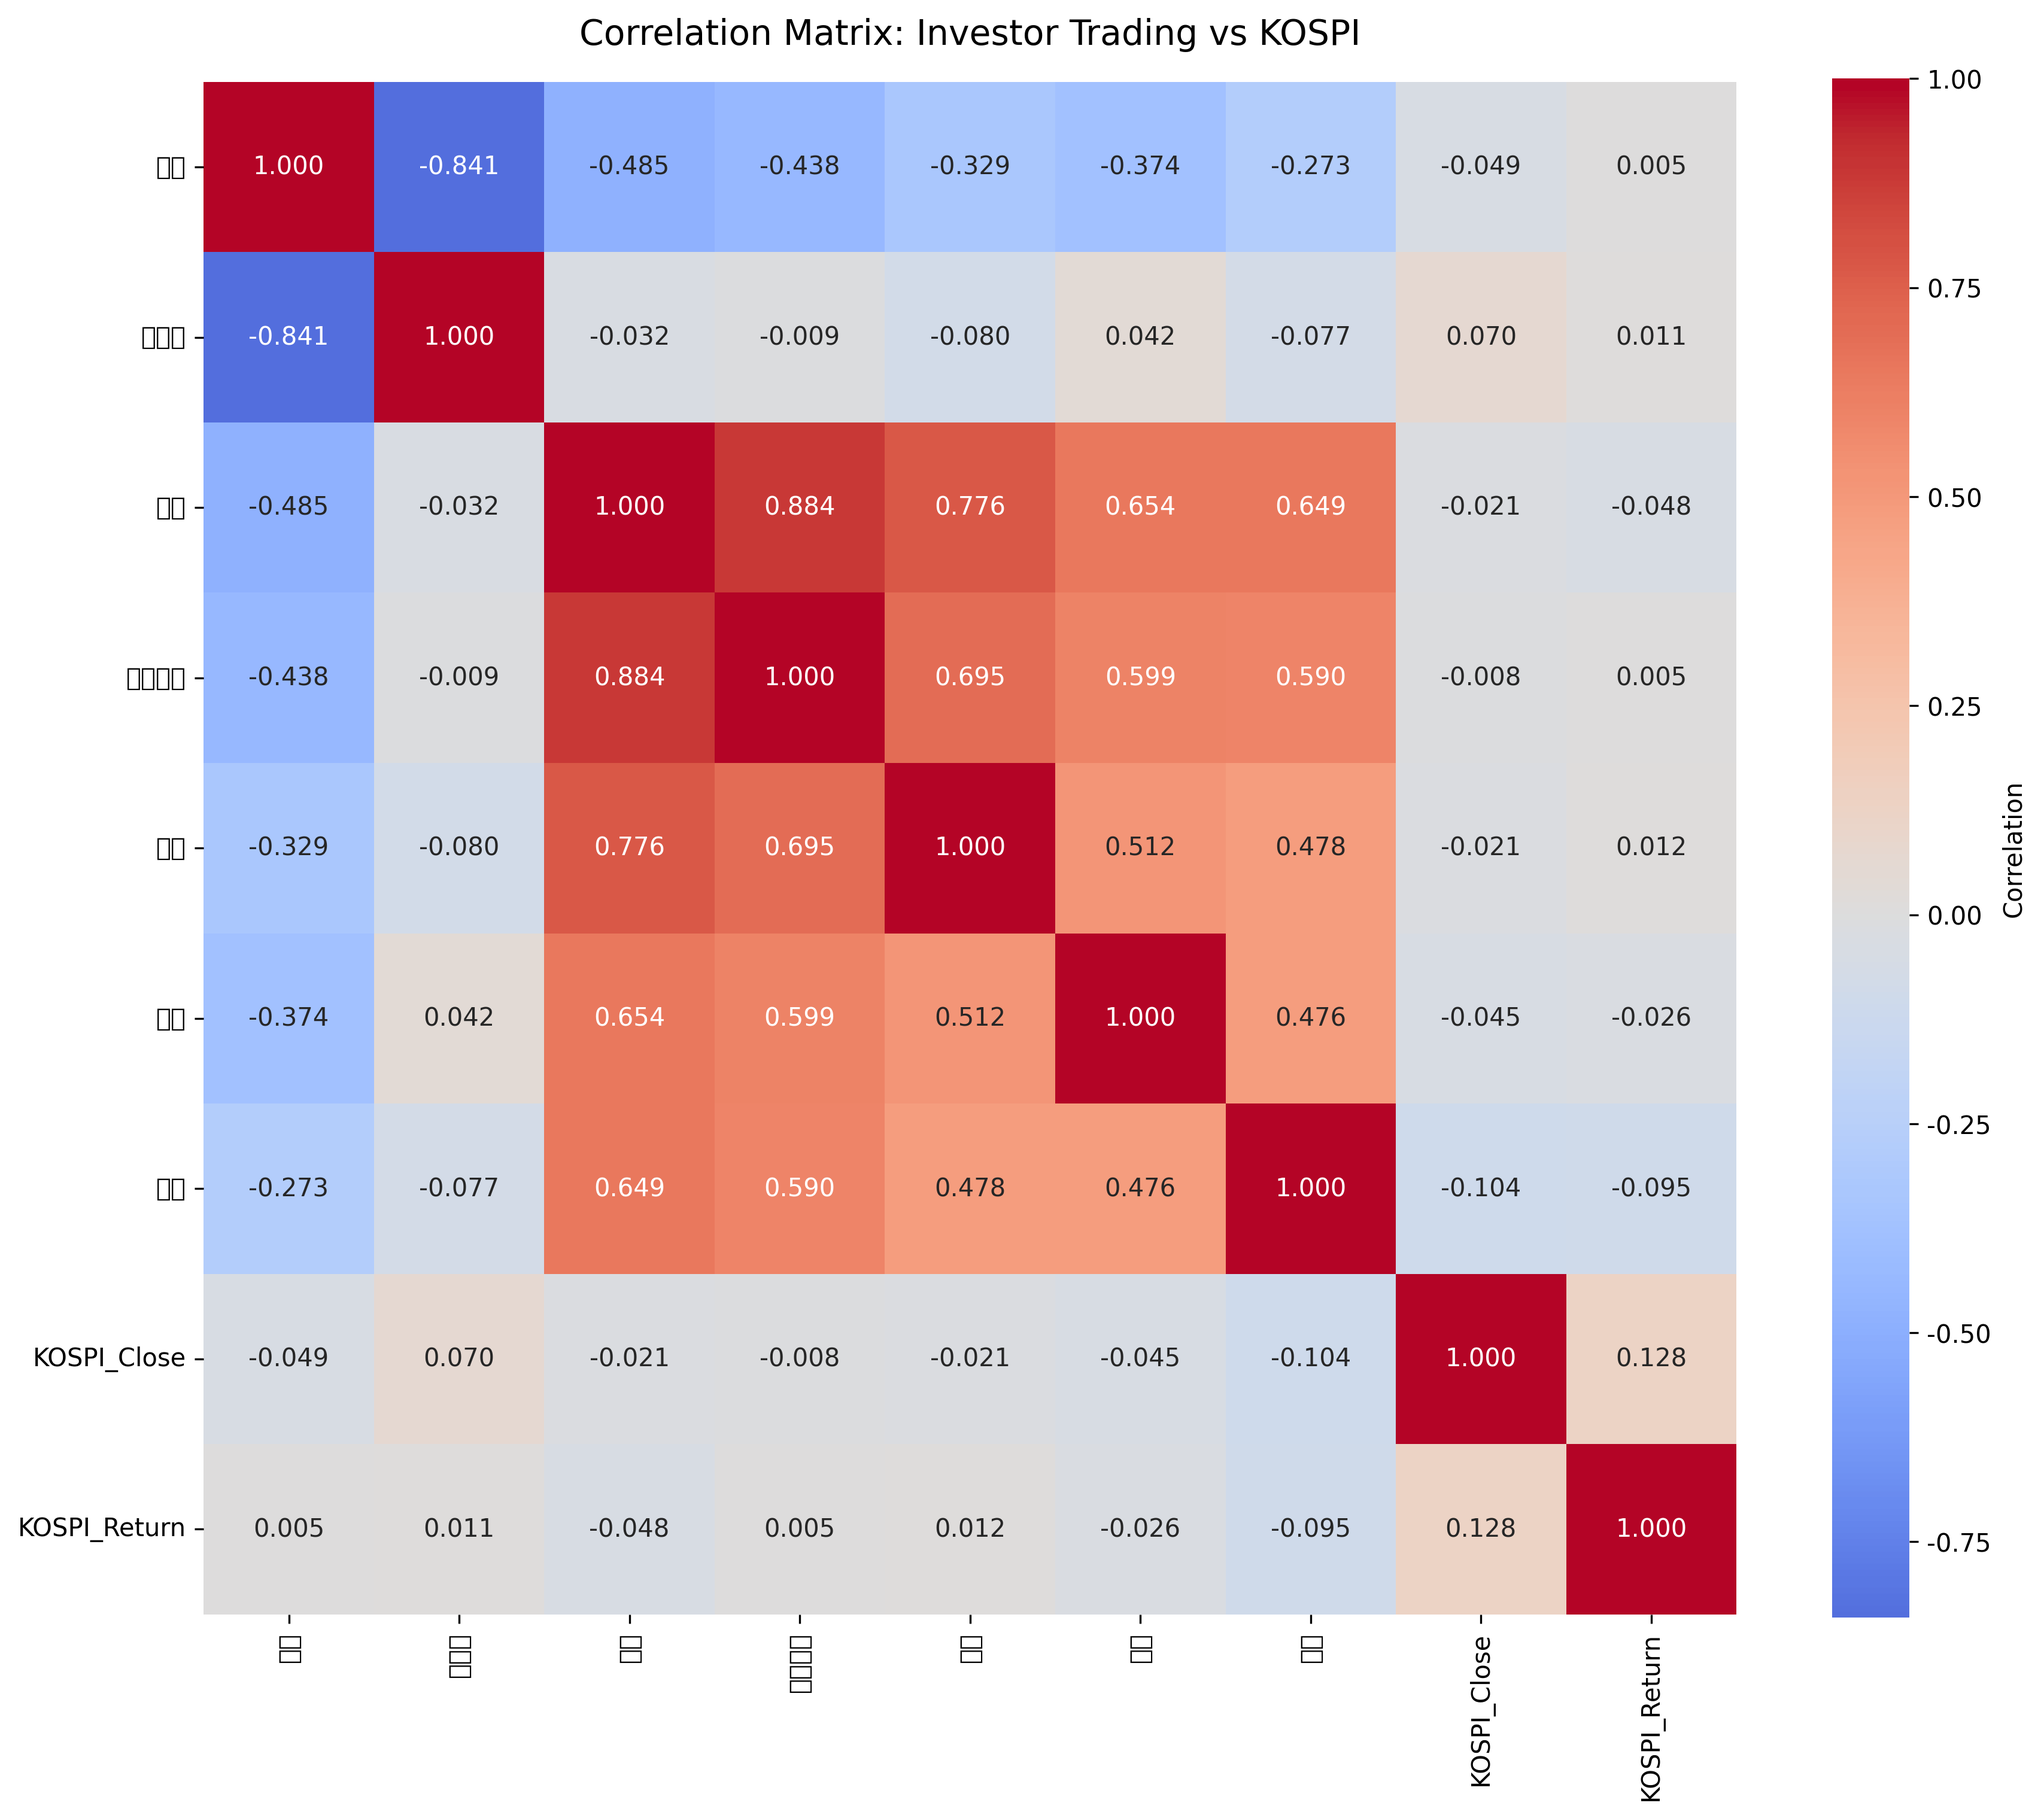
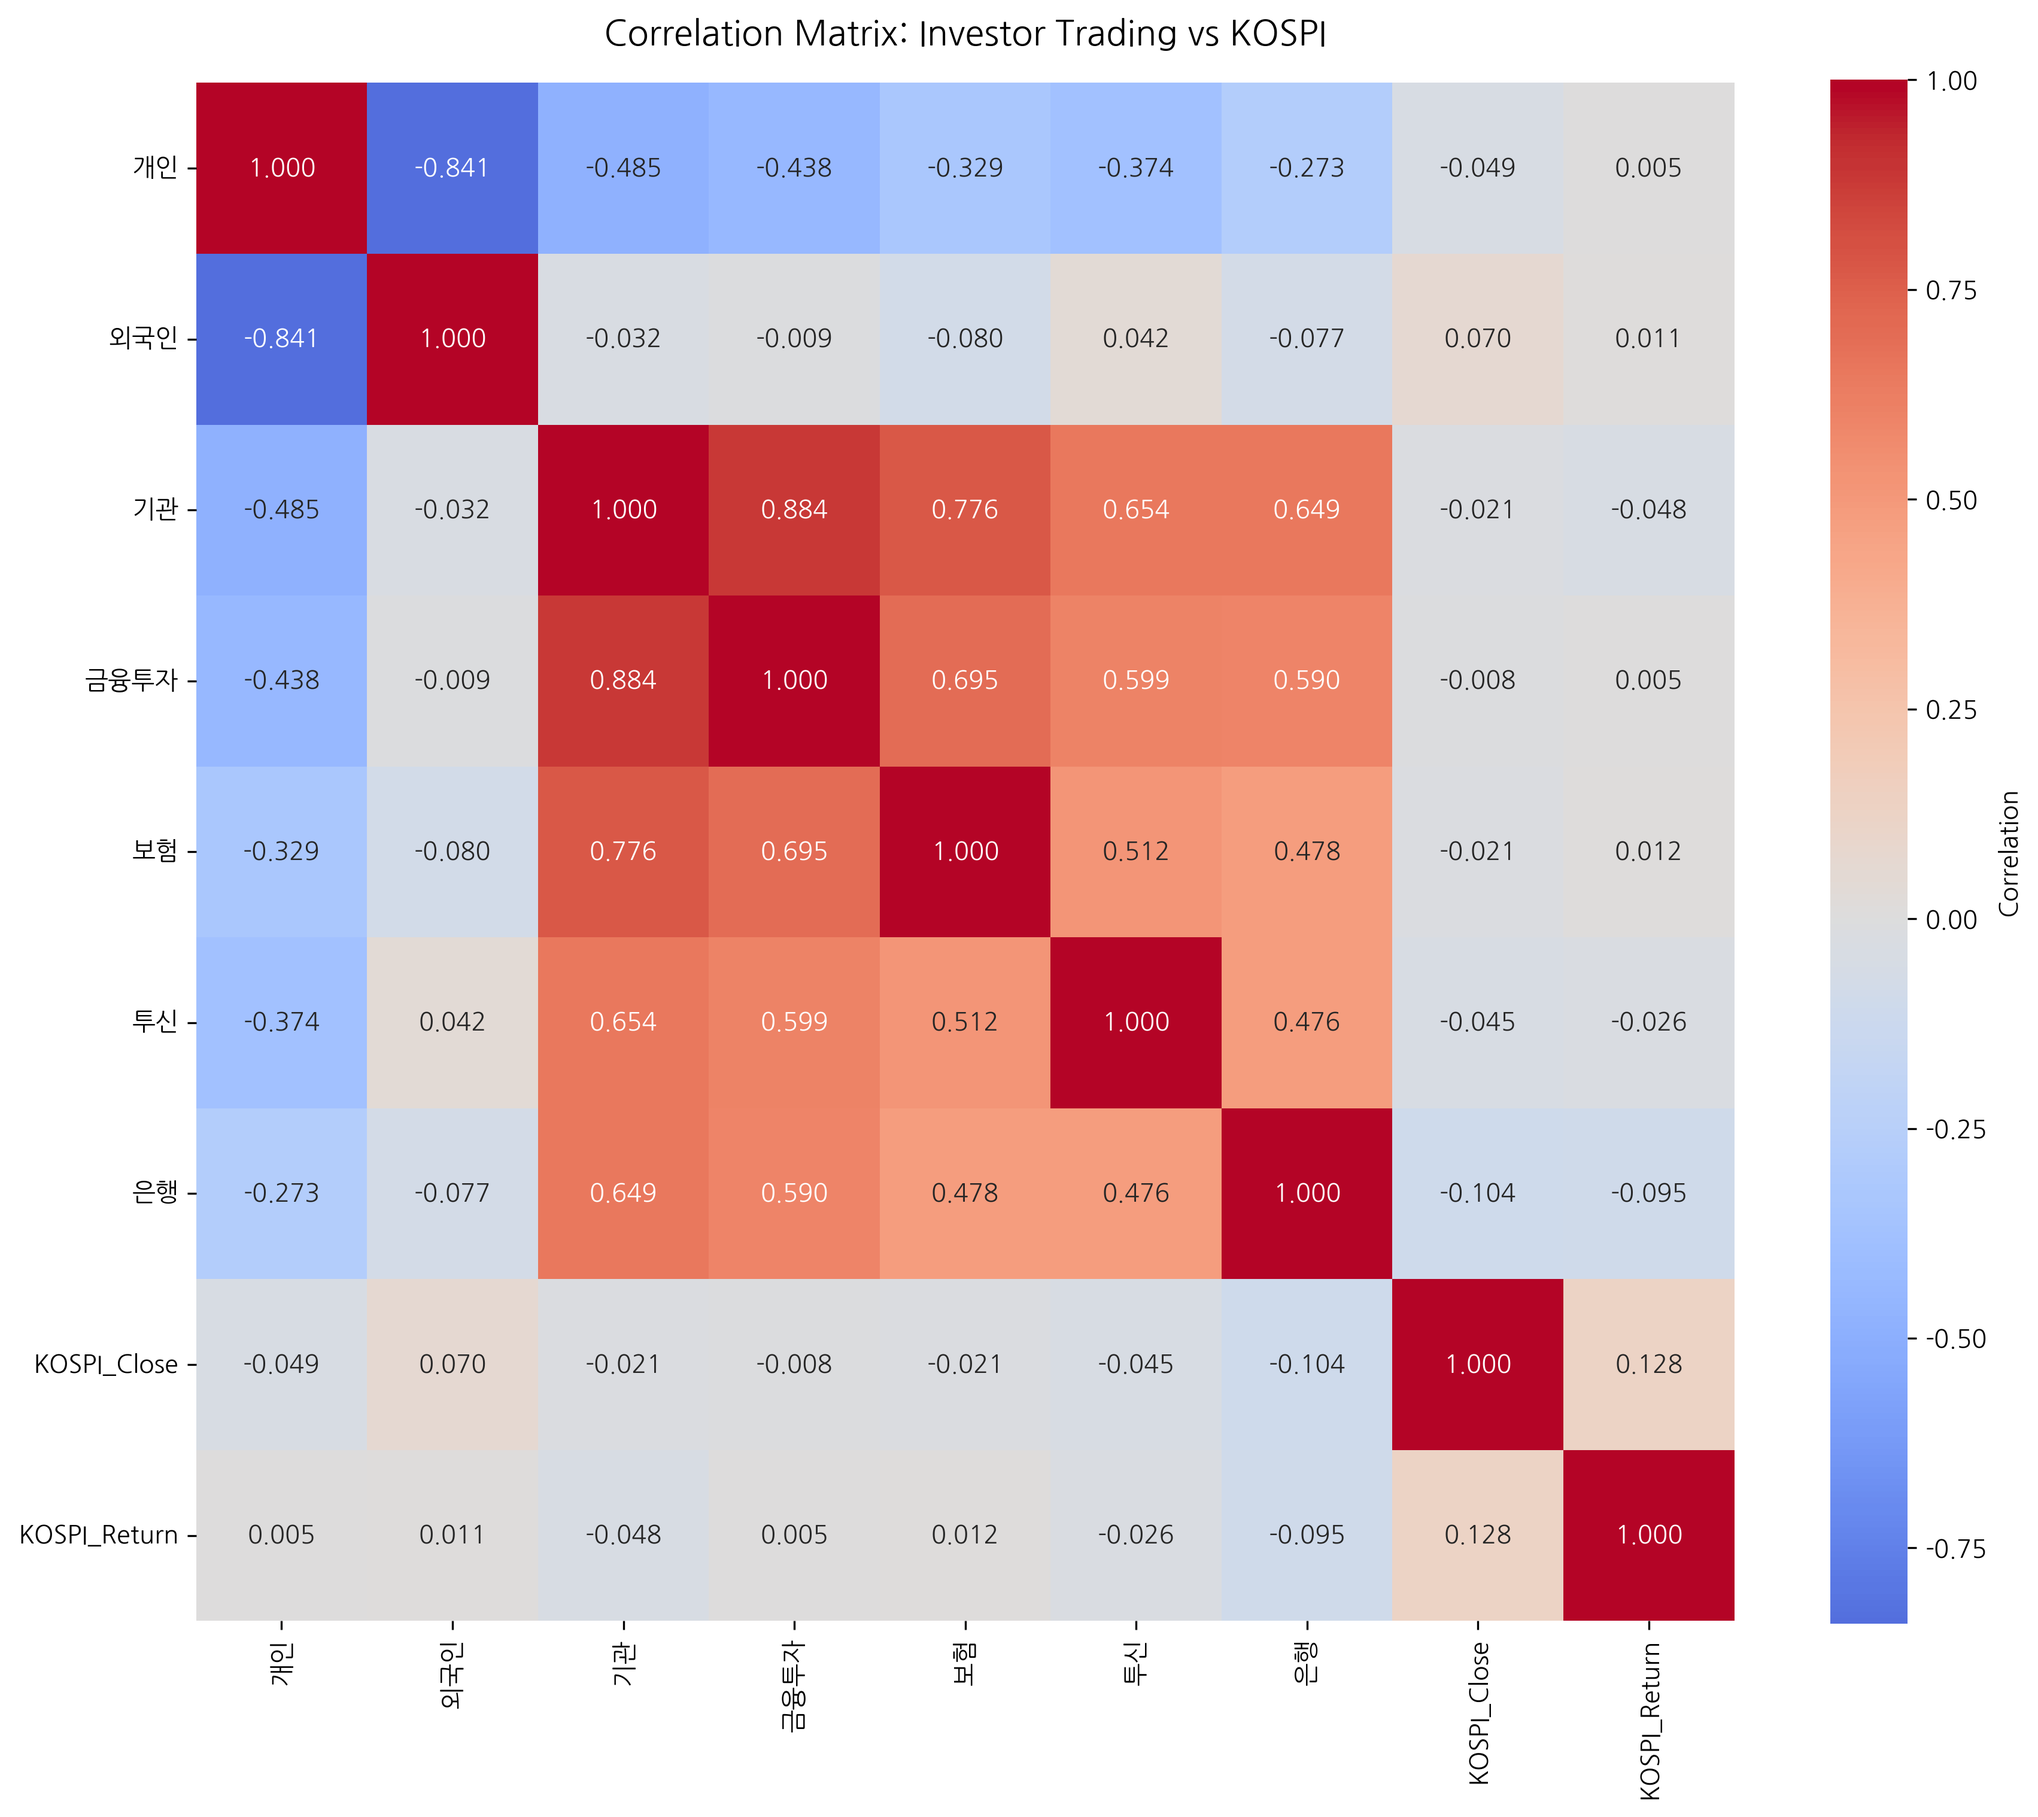
Fix Korean font rendering in matplotlib charts
- Add setup_font.py to download and install Nanum Gothic font
- Update analyze_data.py to properly load and use Korean font
- Regenerate all PNG charts with Korean text properly rendered
- Update README with font installation instructions
- Charts now display Korean text correctly without mojibake

Korean text in charts (개인, 외국인, 기관, etc.) now renders properly.

diff --git a/analyze_data.py b/analyze_data.py
@@ -10,37 +10,32 @@ from datetime import datetime
 import os
 
 # 나눔고딕 폰트 설정
-# 사용 가능한 한글 폰트 찾기
-available_fonts = [f.name for f in fm.fontManager.ttflist]
-korean_fonts = ['NanumGothic', 'Nanum Gothic', 'NanumBarunGothic', 'Malgun Gothic',
-                'AppleGothic', 'Apple SD Gothic Neo']
-
-font_to_use = None
-for font in korean_fonts:
-    if font in available_fonts:
-        font_to_use = font
-        break
-
-# 나눔고딕 TTF 파일이 있는 경우 직접 로드
 font_path = os.path.expanduser('~/.fonts/NanumGothic.ttf')
+
 if os.path.exists(font_path):
     try:
-        font_prop = fm.FontProperties(fname=font_path)
+        # 폰트 파일 직접 등록
         fm.fontManager.addfont(font_path)
-        font_to_use = font_prop.get_name()
+        # 폰트 속성 가져오기
+        font_entry = fm.FontEntry(fname=font_path, name='NanumGothic')
+        fm.fontManager.ttflist.append(font_entry)
+
+        # matplotlib에 폰트 설정
+        plt.rcParams['font.family'] = 'NanumGothic'
+        plt.rcParams['axes.unicode_minus'] = False
+        print(f"✅ 나눔고딕 폰트 적용 완료")
     except Exception as e:
-        print(f"폰트 로드 실패: {e}")
-
-# 폰트 설정
-if font_to_use:
-    plt.rcParams['font.family'] = font_to_use
-    print(f"사용 폰트: {font_to_use}")
+        print(f"❌ 폰트 로드 실패: {e}")
+        # 폴백: 기본 폰트 사용
+        plt.rcParams['font.family'] = 'DejaVu Sans'
+        plt.rcParams['axes.unicode_minus'] = False
+        print("⚠  기본 폰트 사용 (한글 깨질 수 있음)")
 else:
-    # 한글 폰트가 없는 경우 DejaVu Sans 사용 (기본값)
+    # 폰트 파일이 없는 경우
+    print("⚠  나눔고딕 폰트를 찾을 수 없습니다.")
+    print("   'python setup_font.py'를 먼저 실행하세요.")
     plt.rcParams['font.family'] = 'DejaVu Sans'
-    print("경고: 한글 폰트를 찾을 수 없습니다. 영문 폰트를 사용합니다.")
-
-plt.rcParams['axes.unicode_minus'] = False
+    plt.rcParams['axes.unicode_minus'] = False
 
 def load_data(data_dir="data"):
     """데이터 로드"""

diff --git a/setup_font.py b/setup_font.py
@@ -1,0 +1,45 @@
+"""
+나눔고딕 폰트 다운로드 및 설정 스크립트
+"""
+import urllib.request
+import os
+
+def download_nanum_font():
+    """나눔고딕 폰트 다운로드"""
+    # 폰트 URL (공개 저장소)
+    font_url = "https://github.com/google/fonts/raw/main/ofl/nanumgothic/NanumGothic-Regular.ttf"
+
+    # 폰트 디렉토리 생성
+    font_dir = os.path.expanduser('~/.fonts')
+    os.makedirs(font_dir, exist_ok=True)
+
+    font_path = os.path.join(font_dir, 'NanumGothic.ttf')
+
+    try:
+        print(f"나눔고딕 폰트 다운로드 중...")
+        urllib.request.urlretrieve(font_url, font_path)
+
+        # 파일 크기 확인
+        file_size = os.path.getsize(font_path)
+
+        if file_size > 10000:  # 10KB 이상이면 정상
+            print(f"✅ 폰트 다운로드 성공: {font_path}")
+            print(f"   파일 크기: {file_size:,} bytes")
+            return True
+        else:
+            print(f"❌ 다운로드된 파일이 너무 작습니다: {file_size} bytes")
+            os.remove(font_path)
+            return False
+
+    except Exception as e:
+        print(f"❌ 폰트 다운로드 실패: {e}")
+        if os.path.exists(font_path):
+            os.remove(font_path)
+        return False
+
+if __name__ == "__main__":
+    if download_nanum_font():
+        print("\n폰트가 성공적으로 설치되었습니다.")
+        print("이제 analyze_data.py를 실행하면 한글이 정상적으로 표시됩니다.")
+    else:
+        print("\n폰트 다운로드에 실패했습니다.")

diff --git a/README.md b/README.md
@@ -10,24 +10,30 @@ pip install -r requirements.txt
 
 ## 사용법
 
-### 1. 샘플 데이터 생성
+### 1. 한글 폰트 설치 (처음 한 번만)
+차트에서 한글이 깨지지 않도록 나눔고딕 폰트를 설치합니다:
+```bash
+python setup_font.py
+```
+
+### 2. 샘플 데이터 생성
 실제 API 접근이 제한된 환경에서는 샘플 데이터를 생성합니다:
 ```bash
 python generate_sample_data.py
 ```
 
-### 2. 실제 데이터 수집 (선택사항)
+### 3. 실제 데이터 수집 (선택사항)
 KRX API 접근 가능한 경우:
 ```bash
 python collect_data.py
 ```
 
-### 3. 데이터 분석 (정적 차트)
+### 4. 데이터 분석 (정적 차트)
 ```bash
 python analyze_data.py
 ```
 
-### 4. 웹 대시보드 생성 (추천! 🌟)
+### 5. 웹 대시보드 생성 (추천! 🌟)
 인터랙티브한 웹 대시보드를 생성합니다:
 ```bash
 python create_web_dashboard.py
@@ -68,6 +74,7 @@ python create_web_dashboard.py
 
 ```
 kospi_mining/
+├── setup_font.py              # 한글 폰트 설치 스크립트
 ├── collect_data.py            # 실제 데이터 수집 (KRX API)
 ├── generate_sample_data.py    # 샘플 데이터 생성
 ├── analyze_data.py            # 정적 차트 생성 (matplotlib/seaborn)
@@ -78,9 +85,9 @@ kospi_mining/
 │   └── kospi_index.csv
 └── results/                   # 분석 결과
     ├── dashboard.html         # 웹 대시보드 (추천!)
-    ├── investor_trends.png
-    ├── cumulative_trends.png
-    ├── correlation_heatmap.png
+    ├── investor_trends.png    # 한글 지원
+    ├── cumulative_trends.png  # 한글 지원
+    ├── correlation_heatmap.png # 한글 지원
     └── analysis_report.md
 ```
 

diff --git a/results/analysis_report.md b/results/analysis_report.md
@@ -1,5 +1,5 @@
 # 코스피 투자자별 거래 데이터 분석 리포트
-분석일: 2025-11-18 05:35:12
+분석일: 2025-11-18 05:39:49
 분석 기간: 2024-11-18 ~ 2025-11-18
 총 거래일: 262 일
 
